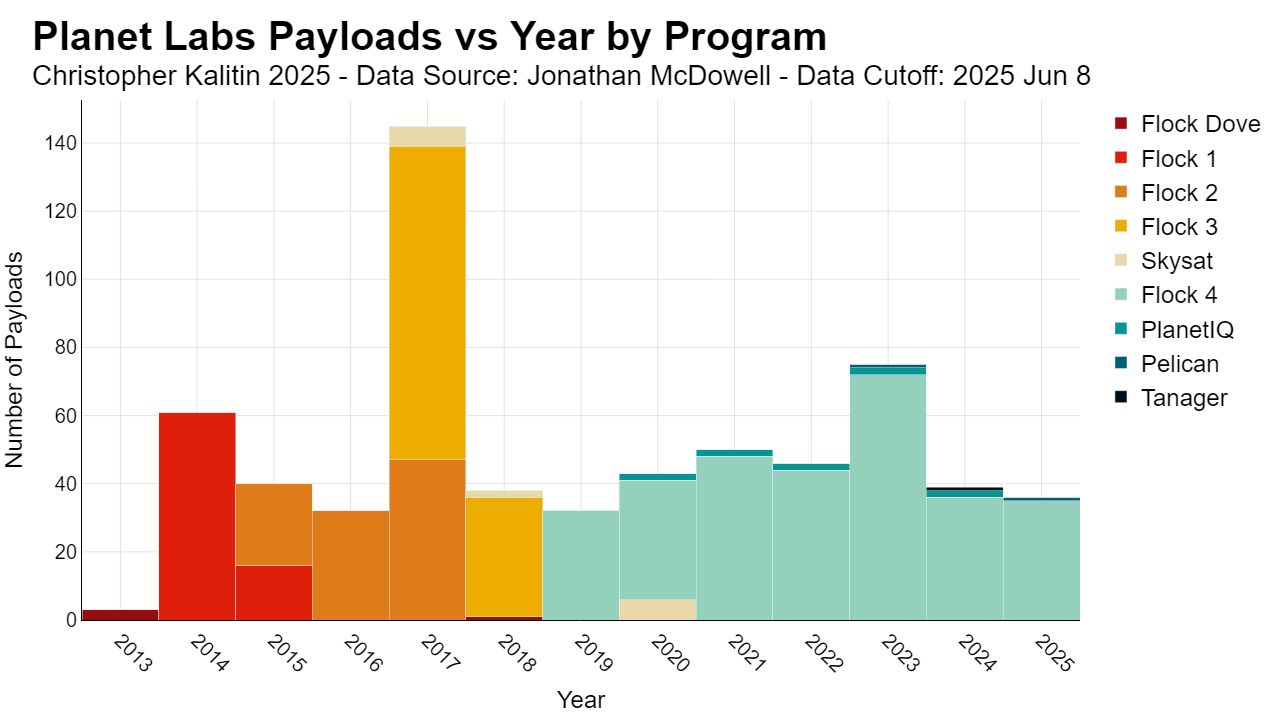
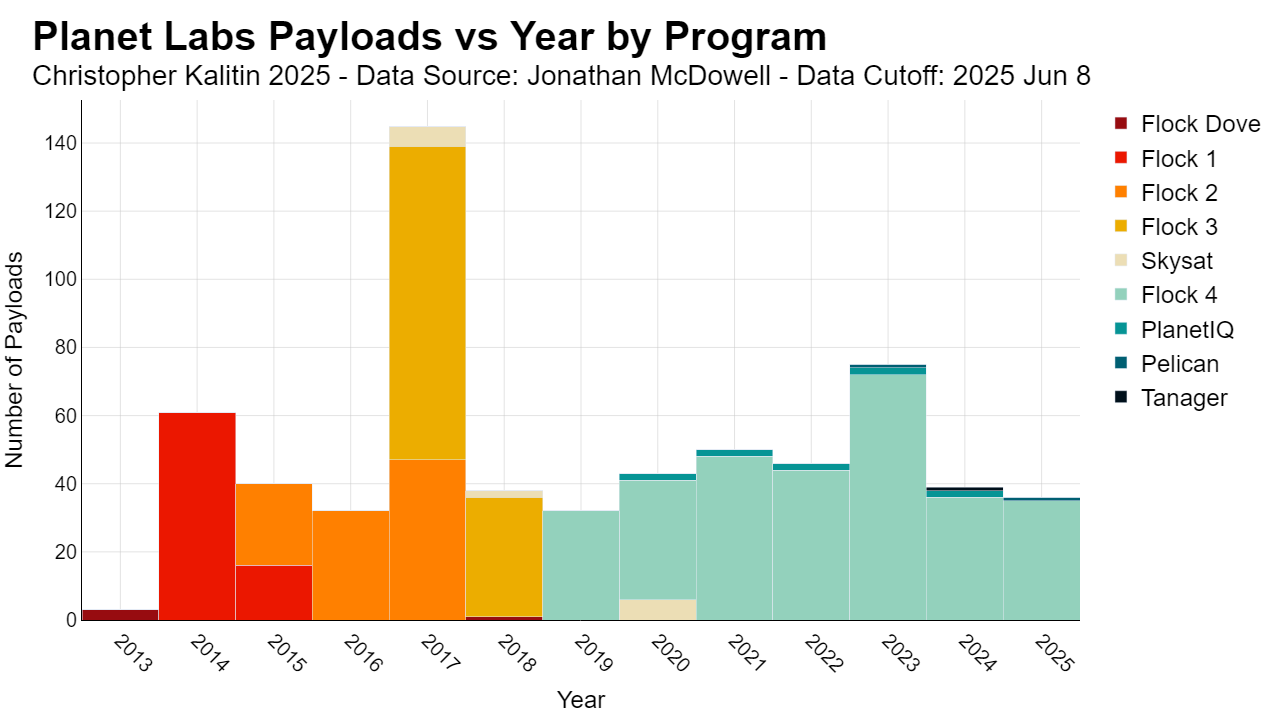
Add Launch_Vehicle_Simplified to satcat & PSLW fix

Changed region(s): [[0.1875, 0.6417, 0.375, 0.8861]]

diff --git a/examples/standard_chart_generation.py b/examples/standard_chart_generation.py
@@ -681,10 +681,7 @@ def owner_payloads_vs_year_by_launch_vehicle(chart_title_prefix, output_prefix, 
 
     output_name = f"{output_prefix}_payloads_vs_year_by_launch_vehicle"
 
-    print(dataset.satcat.df.columns)
-    print(dataset.launch.df.columns)
-
-    launch_vehicles = dataset.satcat.df['LV_Type'].dropna().unique()
+    launch_vehicles = dataset.satcat.df['Launch_Vehicle_Simplified'].dropna().unique()
 
     dataset.satcat.df['Launch_Year'] = dataset.satcat.df['Launch_Date'].dt.year
 
@@ -695,7 +692,7 @@ def owner_payloads_vs_year_by_launch_vehicle(chart_title_prefix, output_prefix, 
         groups=launch_vehicles,
         groupby_col="Launch_Year",
         count_values=True,
-        filter_function_additional_parameter="LV_Type"
+        filter_function_additional_parameter="Launch_Vehicle_Simplified"
     )
     
     # Combine dictionary of dataframes into a single dataframe (by column)

diff --git a/examples/planet_labs_charts.py b/examples/planet_labs_charts.py
@@ -17,7 +17,7 @@ program_simplification_dict = {
 
 program_order = ['Flock Dove', 'Flock 1', 'Flock 2', 'Flock 3', 'Skysat', 'Flock 4', 'PlanetIQ', 'Pelican', 'Tanager']
 
-"""scg.owner_payloads_vs_year_by_program(
+scg.owner_payloads_vs_year_by_program(
     chart_title_prefix=chart_title_prefix,
     output_prefix=output_prefix,
     owners_list=owners_list,
@@ -31,7 +31,7 @@ scg.owner_payloads_vs_year_by_orbit(
     output_prefix=output_prefix,
     owners_list=owners_list,
     color_map=mda.ChartUtils.orbit_color_map,
-)"""
+)
 
 scg.owner_payloads_vs_year_by_launch_vehicle(
     chart_title_prefix=chart_title_prefix,

diff --git a/src/translations.py b/src/translations.py
@@ -336,10 +336,10 @@ class Translation:
         "Angara-1.2PP": "Angara",
         "Angara-1.2": "Angara",
         "Naro-1": "Naro",
-        "PSLV": "PSLW",
-        "PSLV-DL": "PSLW",
-        "PSLV-QL": "PSLW",
-        "PSLV-XL": "PSLW",
+        "PSLV": "PSLV",
+        "PSLV-DL": "PSLV",
+        "PSLV-QL": "PSLV",
+        "PSLV-XL": "PSLV",
         "GSLV Mk I": "GSLV",
         "GSLV Mk II": "GSLV",
         "Juno II": "Juno 2",

diff --git a/src/dataset_satcat.py b/src/dataset_satcat.py
@@ -205,6 +205,12 @@ class Satcat:
         )
         
         self.df = self.df.merge(
+            launch_df[["Launch_Tag", "Launch_Vehicle_Simplified"]],
+            on="Launch_Tag",
+            how="left"
+        )
+        
+        self.df = self.df.merge(
             launch_df[["Launch_Tag", "Launch_Site_Parent"]],
             on="Launch_Tag",
             how="left"

diff --git a/src/chart_utils.py b/src/chart_utils.py
@@ -60,10 +60,10 @@ class ChartUtils:
     
     color_sequence_2_8 = [
         "#970c10",
-        "#df1f0a",
-        "#df7b18",
+        "#eb1700",
+        "#ff8000",
         "#ecad00",
-        "#e9d8a8",
+        "#ecdeb5",
         "#93d1bc",
         "#069495",
         "#005f72",
